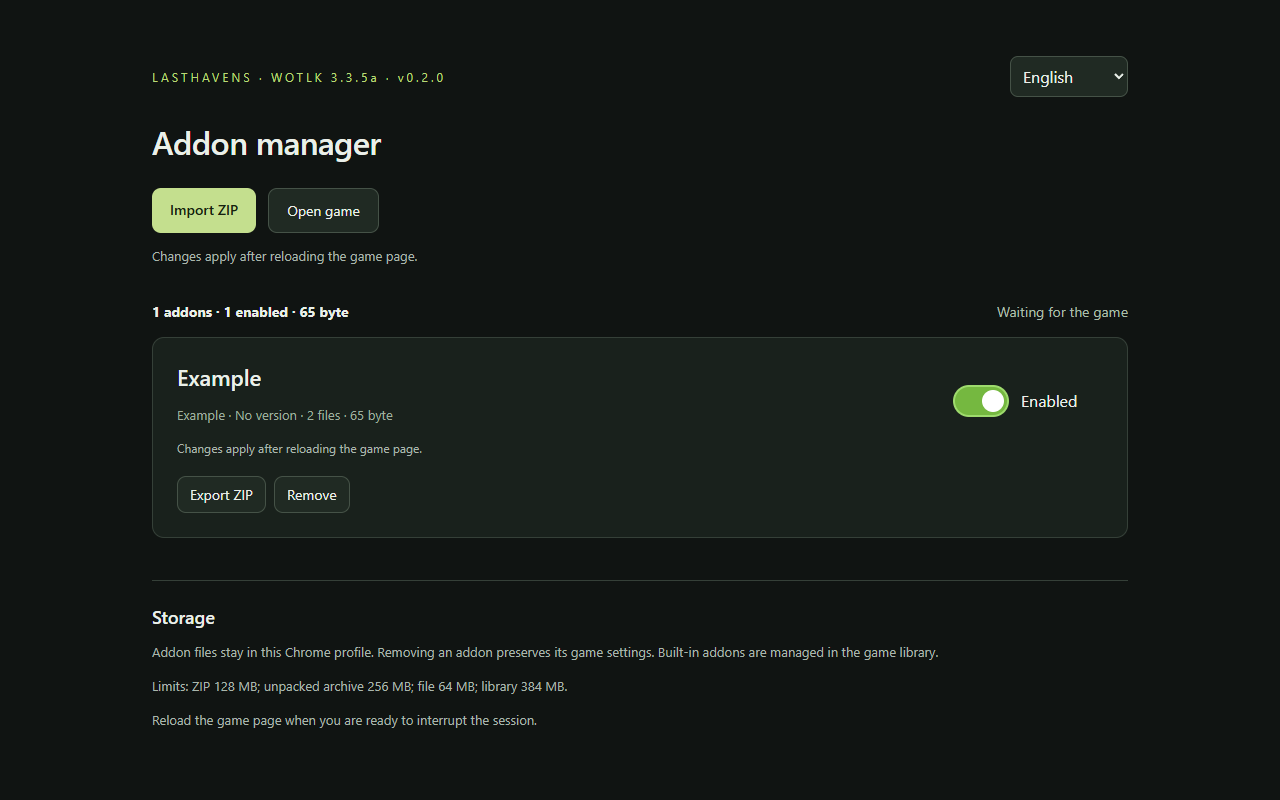
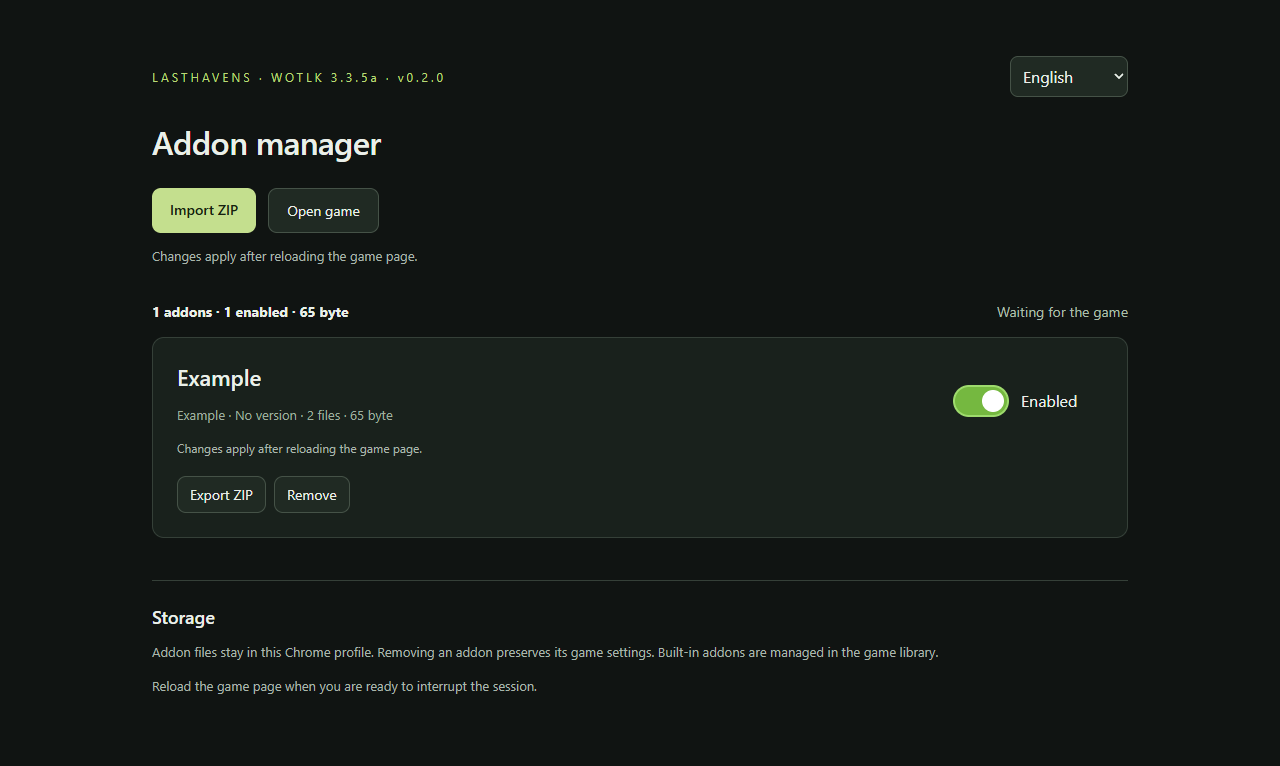
Fix injecting addons in game

diff --git a/extension/runtime-core.js b/extension/runtime-core.js
@@ -3,6 +3,56 @@ globalThis.LHInstallOverlay = function (files, base) {
   const Native = XMLHttpRequest,
     paths = Object.keys(files);
   const entries = paths.map((p) => files[p].size + "\t" + p).join("\n");
+  const origin = new URL(base).origin;
+  const findBlock = (path) => {
+    const match = path.match(/^\/blocks\/(.+)\/\d+-(\d+)-(\d+)k\.bin$/);
+    if (!match) return null;
+    let name;
+    try {
+      name = decodeURIComponent(match[1]);
+    } catch {
+      return null;
+    }
+    if (!Object.hasOwn(files, name)) return null;
+    const length = Number(match[3]) * 1024;
+    return { file: files[name], start: Number(match[2]) * length, length };
+  };
+  if (typeof window !== "undefined" && paths.length) {
+    // The page also prefetches WebVFS blocks using fetch, outside the worker.
+    const nativeFetch = globalThis.fetch.bind(globalThis);
+    globalThis.fetch = async (input, options) => {
+      const url = new URL(
+        input instanceof Request ? input.url : String(input),
+        base,
+      );
+      const method =
+        options?.method ?? (input instanceof Request ? input.method : "GET");
+      const block =
+        url.origin === origin && method.toUpperCase() === "GET"
+          ? findBlock(url.pathname)
+          : null;
+      if (!block) return nativeFetch(input, options);
+      const { file, start, length } = block;
+      if (!length || start >= file.size)
+        return new Response(null, { status: 416 });
+      const end = Math.min(start + length, file.size) - 1;
+      const result = await nativeFetch(file.url, {
+        headers: { Range: `bytes=${start}-${end}` },
+        signal:
+          options?.signal ??
+          (input instanceof Request ? input.signal : undefined),
+      });
+      if (result.status === 206)
+        return new Response(result.body, {
+          headers: { "Content-Type": "application/octet-stream" },
+        });
+      if (!result.ok) return result;
+      const full = await result.blob();
+      return new Response(
+        full.slice(start, end + 1, "application/octet-stream"),
+      );
+    };
+  }
   globalThis.XMLHttpRequest = class extends Native {
     open(method, url, ...args) {
       this.answer = null;

diff --git a/extension/archive.js b/extension/archive.js
@@ -1,12 +1,5 @@
 import { AddonError } from "./errors.js";
 import { unzipSync, zipSync } from "./vendor/fflate.js";
-export const LIMITS = {
-  archive: 128 * 1024 * 1024,
-  expanded: 256 * 1024 * 1024,
-  file: 64 * 1024 * 1024,
-  count: 32000,
-  total: 384 * 1024 * 1024,
-};
 const decoder = new TextDecoder();
 export function crc32(bytes) {
   let c = 0xffffffff;
@@ -36,7 +29,6 @@ function safePath(name) {
   return p;
 }
 function inspectZip(bytes) {
-  if (bytes.length > LIMITS.archive) throw new AddonError("errorArchiveSize");
   const v = new DataView(bytes.buffer, bytes.byteOffset, bytes.byteLength);
   let e = -1;
   for (let i = bytes.length - 22; i >= Math.max(0, bytes.length - 65557); i--) {
@@ -56,10 +48,8 @@ function inspectZip(bytes) {
     length = v.getUint32(e + 12, true);
   if (count === 65535 || start === 0xffffffff || length === 0xffffffff)
     throw new AddonError("errorZip");
-  if (count > LIMITS.count || start + length > e)
-    throw new AddonError("errorZip");
-  let at = start,
-    total = 0;
+  if (start + length > e) throw new AddonError("errorZip");
+  let at = start;
   const meta = new Map(),
     seen = new Set();
   for (let i = 0; i < count; i++) {
@@ -90,9 +80,6 @@ function inspectZip(bytes) {
       decoder.decode(bytes.subarray(offset + 30, offset + 30 + ln)) !== name
     )
       throw new AddonError("errorZip");
-    total += size;
-    if (size > LIMITS.file || total > LIMITS.expanded)
-      throw new AddonError("errorExpanded");
     if (seen.has(path.toLowerCase()))
       throw new AddonError("errorDuplicate", { detail: path });
     seen.add(path.toLowerCase());

diff --git a/tests/runtime.browser.js b/tests/runtime.browser.js
@@ -33,6 +33,8 @@ import assert from "node:assert/strict";
           contentType: "text/plain",
           body: "1\tData/test.MPQ\n",
         });
+      if (u.pathname.startsWith("/blocks/"))
+        return route.fulfill({ status: 404 });
       if (u.pathname === "/Wow.js")
         return route.fulfill({
           contentType: "text/javascript",
@@ -61,6 +63,21 @@ import assert from "node:assert/strict";
     );
     assert.deepEqual(Buffer.from(r.bytes), binary.subarray(65536, 131072));
     assert.equal(r.status, 200);
+    const prefetched = await page.evaluate(async () => {
+      const request = new Request(
+        "/blocks/Interface/AddOns/RuntimeProbe/RuntimeProbe.lua/140000-2-64k.bin",
+      );
+      const local = await fetch(request);
+      const remote = await fetch("/blocks/Data/test.MPQ/1-0-64k.bin");
+      return {
+        status: local.status,
+        bytes: [...new Uint8Array(await local.arrayBuffer())],
+        remote: remote.status,
+      };
+    });
+    assert.equal(prefetched.status, 200);
+    assert.deepEqual(Buffer.from(prefetched.bytes), binary.subarray(131072));
+    assert.equal(prefetched.remote, 404);
     console.log(
       "PASS delayed payload + em-pthread bootstrap + manifest overlay + exact binary second 64KB block",
     );

diff --git a/extension/library.js b/extension/library.js
@@ -1,4 +1,3 @@
-import { LIMITS } from "./archive.js";
 export const emptyLibrary = () => ({ revision: "empty", addons: [] });
 export function mergeAddons(library, items) {
   const next = library.addons.map((a) => ({ ...a }));
@@ -10,8 +9,6 @@ export function mergeAddons(library, items) {
     if (at >= 0) next[at] = addon;
     else next.push(addon);
   }
-  if (next.reduce((n, a) => n + a.size, 0) > LIMITS.total)
-    throw Error("libraryLimit");
   return { ...library, addons: next };
 }
 export function toggleAddon(library, folder, enabled) {

diff --git a/extension/manager.js b/extension/manager.js
@@ -57,7 +57,6 @@ async function action(fn) {
     await fn();
   } catch (error) {
     if (error instanceof AddonError) showMessage(error.code, error.params);
-    else if (error.message === "libraryLimit") showMessage("libraryLimit");
     else {
       console.error("Addon manager operation failed", error);
       showMessage("errorUnexpected");

diff --git a/extension/manager.html b/extension/manager.html
@@ -36,7 +36,6 @@
       <section class="footer">
         <h2 data-i18n="storageTitle"></h2>
         <p data-i18n="storageInfo"></p>
-        <p data-i18n="limits"></p>
         <p data-i18n="reloadInfo"></p>
       </section>
     </main>

diff --git a/docs/README.ru.md b/docs/README.ru.md
@@ -34,13 +34,6 @@
 
 Файлы хранятся в текущем профиле Chrome. Удаление сохраняет игровые настройки аддона. Замена штатных папок не поддерживается. Совместимость каждого аддона требует проверки в игре.
 
-| Ограничение         | Максимум |
-| ------------------- | -------: |
-| ZIP-архив           |   128 MB |
-| Распакованный архив |   256 MB |
-| Один файл           |    64 MB |
-| Библиотека аддонов  |   384 MB |
-
 **Экспериментальная версия:** автоматические локальные проверки пройдены; полная совместимость установленного расширения с текущим клиентом и сторонними аддонами ещё проверяется. [Статус проверок](VALIDATION.md).
 
 ## Разработка и лицензия

diff --git a/docs/README.uk.md b/docs/README.uk.md
@@ -34,13 +34,6 @@
 
 Файли зберігаються в поточному профілі Chrome. Видалення зберігає ігрові налаштування аддона. Заміна вбудованих папок не підтримується. Сумісність кожного аддона потребує перевірки у грі.
 
-| Обмеження          | Максимум |
-| ------------------ | -------: |
-| ZIP-архів          |   128 MB |
-| Розпакований архів |   256 MB |
-| Один файл          |    64 MB |
-| Бібліотека аддонів |   384 MB |
-
 **Експериментальна версія:** автоматичні локальні перевірки пройдено; повна сумісність встановленого розширення з поточним клієнтом і сторонніми аддонами ще перевіряється. [Стан перевірок](VALIDATION.md).
 
 ## Розробка й ліцензія

diff --git a/README.md b/README.md
@@ -44,13 +44,6 @@ Extract the new release into the same installation folder, then open `chrome://e
 
 Addon files are stored locally in the current Chrome profile. Enabled addon files are passed to the game client so it can load them. Built-in addons remain managed through the game's library; their folders cannot be replaced.
 
-| Limit               | Maximum |
-| ------------------- | ------: |
-| ZIP archive         |  128 MB |
-| Unpacked archive    |  256 MB |
-| Individual file     |   64 MB |
-| Local addon library |  384 MB |
-
 **Experimental:** automated import, UI and worker-fixture checks pass, but full installed-extension compatibility with the current game client and every third-party addon is not yet confirmed. See [validation status](docs/VALIDATION.md). When reporting a problem, include the extension version, addon name/version and error text.
 
 ## Development and license

diff --git a/docs/README.fr.md b/docs/README.fr.md
@@ -34,13 +34,6 @@ Décompressez la nouvelle version dans le même dossier d’installation. Ouvrez
 
 Les fichiers restent dans le profil Chrome actuel. La suppression conserve les réglages du jeu. Les dossiers intégrés ne peuvent pas être remplacés. La compatibilité de chaque addon doit être vérifiée dans le jeu.
 
-| Limite                | Maximum |
-| --------------------- | ------: |
-| Archive ZIP           |  128 MB |
-| Archive décompressée  |  256 MB |
-| Fichier individuel    |   64 MB |
-| Bibliothèque d’addons |  384 MB |
-
 **Version expérimentale :** les vérifications locales automatisées réussissent ; la compatibilité complète de l’extension installée avec le client actuel et les addons tiers reste à vérifier. [État de validation](VALIDATION.md).
 
 ## Développement et licence

diff --git a/docs/README.es.md b/docs/README.es.md
@@ -34,13 +34,6 @@ Extrae la nueva versión en la misma carpeta de instalación. Abre `chrome://ext
 
 Los archivos permanecen en el perfil actual de Chrome. La eliminación conserva los ajustes del juego. No se pueden reemplazar carpetas integradas. La compatibilidad de cada addon debe comprobarse en el juego.
 
-| Límite                | Máximo |
-| --------------------- | -----: |
-| Archivo ZIP           | 128 MB |
-| Archivo descomprimido | 256 MB |
-| Archivo individual    |  64 MB |
-| Biblioteca de addons  | 384 MB |
-
 **Versión experimental:** las comprobaciones locales automatizadas pasan; la compatibilidad completa de la extensión instalada con el cliente actual y los addons de terceros todavía se está verificando. [Estado de validación](VALIDATION.md).
 
 ## Desarrollo y licencia

diff --git a/docs/README.pt-BR.md b/docs/README.pt-BR.md
@@ -34,13 +34,6 @@ Extraia a nova versão na mesma pasta de instalação. Abra `chrome://extensions
 
 Os arquivos ficam no perfil atual do Chrome. A remoção preserva as configurações do jogo. Pastas integradas não podem ser substituídas. A compatibilidade de cada addon deve ser verificada no jogo.
 
-| Limite                | Máximo |
-| --------------------- | -----: |
-| Arquivo ZIP           | 128 MB |
-| Arquivo descompactado | 256 MB |
-| Arquivo individual    |  64 MB |
-| Biblioteca de addons  | 384 MB |
-
 **Versão experimental:** as verificações locais automatizadas passam; a compatibilidade completa da extensão instalada com o cliente atual e addons de terceiros ainda está sendo verificada. [Status de validação](VALIDATION.md).
 
 ## Desenvolvimento e licença
